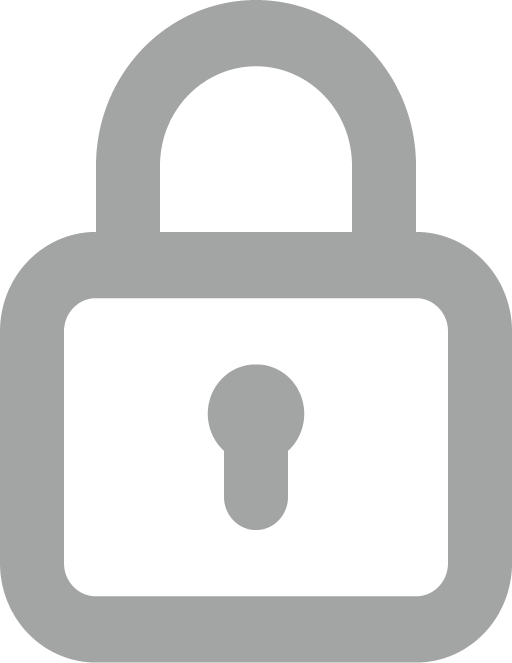
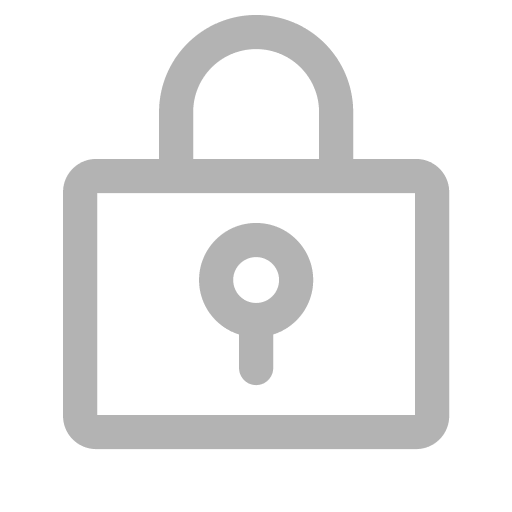
fix change password design

diff --git a/lib/screens/main/profile/login_security/login_security_screen.dart b/lib/screens/main/profile/login_security/login_security_screen.dart
@@ -6,95 +6,116 @@ import 'package:wazafak_app/constants/route_constant.dart';
 import 'package:wazafak_app/utils/res/AppContextExtension.dart';
 
 import '../../../../utils/res/AppIcons.dart';
-import '../../../../utils/res/colors/hex_color.dart';
 import 'components/login_security_item.dart';
 import 'login_security_controller.dart';
 
 class LoginSecurityScreen extends StatelessWidget {
   const LoginSecurityScreen({super.key});
 
+  static const _cardDecoration = BoxDecoration(
+    color: Colors.white,
+    borderRadius: BorderRadius.all(Radius.circular(12)),
+    border: Border.fromBorderSide(
+      BorderSide(color: Color(0xFFE5E5E5), width: 1),
+    ),
+    boxShadow: [
+      BoxShadow(
+        color: Color(0x14000000),
+        blurRadius: 12,
+        offset: Offset(0, 4),
+      ),
+    ],
+  );
+
   @override
   Widget build(BuildContext context) {
-    final controller = Get.put(LoginSecurityController());
+    Get.put(LoginSecurityController());
 
     return Scaffold(
-      backgroundColor: context.resources.color.background,
+      backgroundColor: context.resources.color.background2,
       body: SafeArea(
         child: Column(
           crossAxisAlignment: CrossAxisAlignment.start,
           children: [
-            TopHeader(hasBack: true,
-                title: context.resources.strings.loginAndSecurity),
-            SizedBox(height: 24),
+            TopHeader(
+              hasBack: true,
+              title: context.resources.strings.loginAndSecurity,
+            ),
+            const SizedBox(height: 24),
+
+            // Password & Security section
 
             Container(
-              margin: EdgeInsets.symmetric(horizontal: 16),
-              child: PrimaryText(
-                text: context.resources.strings.passwordAndSecurity,
-                fontSize: 16,
-                fontWeight: FontWeight.w600,
-                textColor: context.resources.color.colorGrey,
-              ),
+              margin: const EdgeInsets.symmetric(horizontal: 16),
+              padding: const EdgeInsets.all( 16),
+              decoration: _cardDecoration,
+              child:  Column(
+                crossAxisAlignment: CrossAxisAlignment.start,
+                  children: [
+                    PrimaryText(
+                      text: context.resources.strings.passwordAndSecurity,
+                      fontSize: 14,
+                      fontWeight: FontWeight.w600,
+                      textColor: context.resources.color.colorBlack4,
+                    ),
+                    const SizedBox(height: 12),
+
+                    LoginSecurityItem(
+                      title: context.resources.strings.changePassword,
+                      onClick: () =>
+                          Get.toNamed(RouteConstant.changePasswordScreen),
+                      icon: AppIcons.changePassword,
+                    ),
+
+                  ],
+                ),
+
             ),
 
-            SizedBox(height: 16),
+            const SizedBox(height: 24),
 
-            LoginSecurityItem(
-              title: context.resources.strings.changePassword,
-              onClick: () {
-                Get.toNamed(RouteConstant.changePasswordScreen);
-              },
-              color: HexColor("#CDE9EE"),
-              border: HexColor("#CDE9EE"),
-              icon: AppIcons.changePassword,
-            ),
 
-            SizedBox(height: 8),
-
-            LoginSecurityItem(
-              title: context.resources.strings.savedLogin,
-              onClick: () {
-                Get.toNamed(RouteConstant.savedLoginScreen);
-              },
-              color: HexColor("#E7F3EE"),
-              border: HexColor("#E7F3EE"),
-              icon: AppIcons.savedLogins,
-            ),
-
-            SizedBox(height: 16),
             Container(
-              margin: EdgeInsets.symmetric(horizontal: 16),
-              child: PrimaryText(
-                text: context.resources.strings.securityChecks,
-                fontSize: 16,
-                fontWeight: FontWeight.w600,
-                textColor: context.resources.color.colorGrey,
+              margin: const EdgeInsets.symmetric(horizontal: 16),
+              decoration: _cardDecoration,
+              padding: EdgeInsets.all(16),
+              child:  Column(
+                  crossAxisAlignment: CrossAxisAlignment.start,
+                  children: [
+
+                    PrimaryText(
+                      text: context.resources.strings.securityChecks,
+                      fontSize: 14,
+                      fontWeight: FontWeight.w600,
+                      textColor: context.resources.color.colorBlack4,
+                    ),
+                    const SizedBox(height: 12),
+
+                    LoginSecurityItem(
+                      title: context.resources.strings.whereYoureLoggedIn,
+                      onClick: () =>
+                          Get.toNamed(RouteConstant.whereLoggedInScreen),
+
+                      icon: AppIcons.whereLoggedIn,
+                    ),
+
+                    Container(
+                      width: double.infinity,
+                      height: 1,
+                        margin: EdgeInsets.symmetric(vertical: 10),
+                      color: context.resources.color.colorGrey25,
+                    ),
+
+                    LoginSecurityItem(
+                      title: context.resources.strings.loginAlerts,
+                      onClick: () =>
+                          Get.toNamed(RouteConstant.loginAlertsScreen),
+
+                      icon: AppIcons.loginAlerts,
+                    ),
+                  ],
+                ),
               ),
-            ),
-
-            SizedBox(height: 16),
-
-            LoginSecurityItem(
-              title: context.resources.strings.whereYoureLoggedIn,
-              onClick: () {
-                Get.toNamed(RouteConstant.whereLoggedInScreen);
-              },
-              color: HexColor("#CDE9EE"),
-              border: HexColor("#CDE9EE"),
-              icon: AppIcons.whereLoggedIn,
-            ),
-
-            SizedBox(height: 8),
-
-            LoginSecurityItem(
-              title: context.resources.strings.loginAlerts,
-              onClick: () {
-                Get.toNamed(RouteConstant.loginAlertsScreen);
-              },
-              color: HexColor("#E7F3EE"),
-              border: HexColor("#E7F3EE"),
-              icon: AppIcons.loginAlerts,
-            ),
           ],
         ),
       ),

diff --git a/lib/screens/main/profile/login_security/change_password/change_password_screen.dart b/lib/screens/main/profile/login_security/change_password/change_password_screen.dart
@@ -11,12 +11,27 @@ import 'change_password_controller.dart';
 class ChangePasswordScreen extends StatelessWidget {
   const ChangePasswordScreen({super.key});
 
+  static const _cardDecoration = BoxDecoration(
+    color: Colors.white,
+    borderRadius: BorderRadius.all(Radius.circular(12)),
+    border: Border.fromBorderSide(
+      BorderSide(color: Color(0xFFE5E5E5), width: 1),
+    ),
+    boxShadow: [
+      BoxShadow(
+        color: Color(0x14000000),
+        blurRadius: 12,
+        offset: Offset(0, 4),
+      ),
+    ],
+  );
+
   @override
   Widget build(BuildContext context) {
     final controller = Get.put(ChangePasswordController());
 
     return Scaffold(
-      backgroundColor: context.resources.color.background,
+      backgroundColor: context.resources.color.background2,
       body: SafeArea(
         child: Column(
           children: [
@@ -29,29 +44,38 @@ class ChangePasswordScreen extends StatelessWidget {
                 child: Column(
                   crossAxisAlignment: CrossAxisAlignment.start,
                   children: [
-                    LabeledTextFiled(
-                      controller: controller.currentPasswordController,
-                      hint: context.resources.strings.oldPassword,
-                      label: context.resources.strings.oldPassword,
-                      isMandatory: true,
-                      isPassword: true,
-                      inputType: TextInputType.visiblePassword,
-                    ),
-                    LabeledTextFiled(
-                      controller: controller.newPasswordController,
-                      hint: context.resources.strings.newPassword,
-                      label: context.resources.strings.newPassword,
-                      isMandatory: true,
-                      isPassword: true,
-                      inputType: TextInputType.visiblePassword,
-                    ),
-                    LabeledTextFiled(
-                      controller: controller.confirmPasswordController,
-                      hint: context.resources.strings.confirmPassword,
-                      label: context.resources.strings.confirmPassword,
-                      isMandatory: true,
-                      isPassword: true,
-                      inputType: TextInputType.visiblePassword,
+                    Container(
+                      width: double.infinity,
+                      decoration: _cardDecoration,
+                      padding: const EdgeInsets.fromLTRB(16, 8, 16, 16),
+                      child: Column(
+                        children: [
+                          LabeledTextFiled(
+                            controller: controller.currentPasswordController,
+                            hint: context.resources.strings.oldPassword,
+                            label: context.resources.strings.oldPassword,
+                            isMandatory: true,
+                            isPassword: true,
+                            inputType: TextInputType.visiblePassword,
+                          ),
+                          LabeledTextFiled(
+                            controller: controller.newPasswordController,
+                            hint: context.resources.strings.newPassword,
+                            label: context.resources.strings.newPassword,
+                            isMandatory: true,
+                            isPassword: true,
+                            inputType: TextInputType.visiblePassword,
+                          ),
+                          LabeledTextFiled(
+                            controller: controller.confirmPasswordController,
+                            hint: context.resources.strings.confirmPassword,
+                            label: context.resources.strings.confirmPassword,
+                            isMandatory: true,
+                            isPassword: true,
+                            inputType: TextInputType.visiblePassword,
+                          ),
+                        ],
+                      ),
                     ),
                     SizedBox(height: 32),
                   ],

diff --git a/lib/screens/main/profile/login_security/components/login_security_item.dart b/lib/screens/main/profile/login_security/components/login_security_item.dart
@@ -10,16 +10,12 @@ class LoginSecurityItem extends StatelessWidget {
     super.key,
     required this.title,
     required this.onClick,
-    required this.color,
-    required this.border,
     required this.icon,
   });
 
   final String title;
   final String icon;
   final Function onClick;
-  final Color color;
-  final Color border;
 
   @override
   Widget build(BuildContext context) {
@@ -28,33 +24,34 @@ class LoginSecurityItem extends StatelessWidget {
         onClick.call();
       },
       child: Container(
-        margin: EdgeInsets.symmetric(horizontal: 16),
-        padding: EdgeInsets.symmetric(horizontal: 24),
         width: double.infinity,
-        height: 75,
+        padding: EdgeInsets.symmetric(vertical: 3),
         decoration: BoxDecoration(
-          color: color,
-          borderRadius: BorderRadius.circular(10),
-          border: Border.all(color: border, width: 1),
+          color: context.resources.color.colorWhite,
         ),
         child: Row(
           children: [
             Image.asset(icon, width: 22),
 
-            SizedBox(width: 8),
+            Container(
+              width: 1,
+              height: 20,
+              color: context.resources.color.colorGrey25,
+              margin: EdgeInsets.symmetric(horizontal: 12),
+            ),
 
             Expanded(
               child: PrimaryText(
                 text: title,
-                fontSize: 14,
-                fontWeight: FontWeight.w900,
-                textColor: context.resources.color.colorGrey11,
+                fontSize: 13,
+                fontWeight: FontWeight.w500,
+                textColor: context.resources.color.colorGrey26,
               ),
             ),
 
             RotatedBox(
               quarterTurns: Utils().isRTL() ? 2 : 0,
-              child: Image.asset(AppIcons.arrowRight2, width: 18),
+              child: Image.asset(AppIcons.arrowRight2, width: 18,color: context.resources.color.colorGrey26,),
             ),
           ],
         ),

diff --git a/lib/screens/main/profile/my_addresses/add_address/add_address_screen.dart b/lib/screens/main/profile/my_addresses/add_address/add_address_screen.dart
@@ -61,7 +61,7 @@ class AddAddressScreen extends StatelessWidget {
                     if (hasLocation) ...[
                       SizedBox(height: 8,),
 
-                      PrimaryText(text: 'Location Pin',fontWeight: FontWeight.w600,fontSize: 14,),
+                      PrimaryText(text: Resources.of(context).strings.locationPin, fontWeight: FontWeight.w600, fontSize: 14,),
                       SizedBox(height: 8,),
                       ClipRRect(
                         borderRadius: BorderRadius.circular(12),

diff --git a/lib/utils/res/strings/EnglishStrings.dart b/lib/utils/res/strings/EnglishStrings.dart
@@ -2214,6 +2214,9 @@ class EnglishStrings extends Strings {
   String get edit => "Edit";
 
   @override
+  String get locationPin => "Location Pin";
+
+  @override
   String get wouldYouLikeToContactFreelancer => "Would you like to contact the freelancer?";
 
   @override

diff --git a/lib/utils/res/strings/ArabicStrings.dart b/lib/utils/res/strings/ArabicStrings.dart
@@ -1324,6 +1324,9 @@ class ArabicStrings extends Strings {
 
   @override
   String get edit => "تعديل";
+
+  @override
+  String get locationPin => "الموقع المحدد";
   @override
   String get selectDuration => "حدد المدة";
 

diff --git a/lib/utils/res/strings/Strings.dart b/lib/utils/res/strings/Strings.dart
@@ -1458,4 +1458,6 @@ abstract class Strings {
   String get voucher;
   String get legal;
   String get edit;
+
+  String get locationPin;
 }
